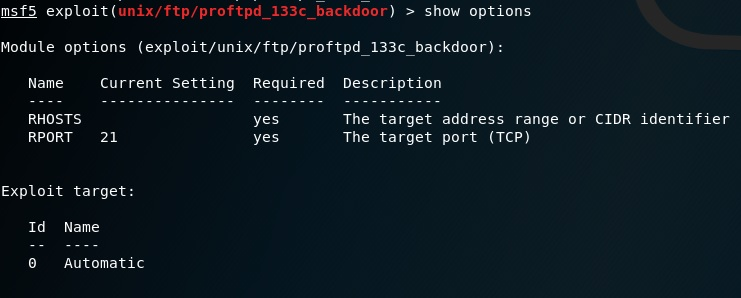
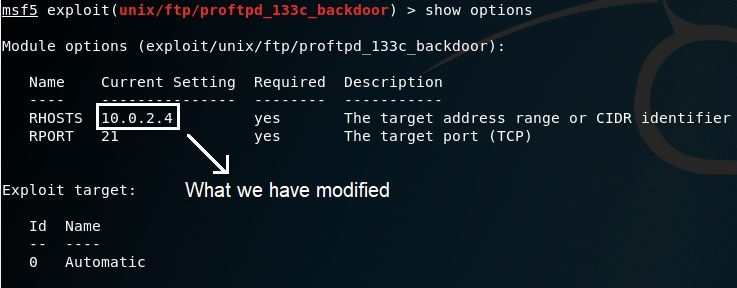
Added clarity to FTP exploit for basic-pentesting-1

diff --git a/basic-pentesting-1.md b/basic-pentesting-1.md
@@ -16,9 +16,10 @@ By Josiah Pierce
 * Run `msfconsole`, then `search proFTPD` to find out if there is an available module that exploits the backdoor mentioned above:
 ![](/screenshots/msfconsoleProFTPD.jpg)
 * Indeed there is such an available module, and we see that it is ranked as excellent as well.
-* Run `use exploit/unix/ftp/proftpd_133c_backdoor` for us to use the module, and then `show options` to see what parameters there are in the module:
+* Run `use exploit/unix/ftp/proftpd_133c_backdoor` for us to use the module, and then `show options` to see that there are 2 parameters in the module: RHOST (value: empty) and RPORT (value: 21).
+* Set RHOST to be our victim's IP address: `set RHOST 10.0.2.4`. RPORT 21 is correct since we are targeting the FTP service, hence it will not be modified.
+* Run `show options` again to confirm that we have the correct parameters set:
 ![](/screenshots/backdoorOptions.jpg)
-* Set RHOST to be our victim's IP address: `set RHOST 10.0.2.4`. The RPORT 21 is correct since we are targeting the FTP service, hence it will not be modified.
 * Run `exploit`:
 ![](/screenshots/exploitRootFTP.jpg)
 * And we are done! We have gained root access with a shell on the victim VM.
